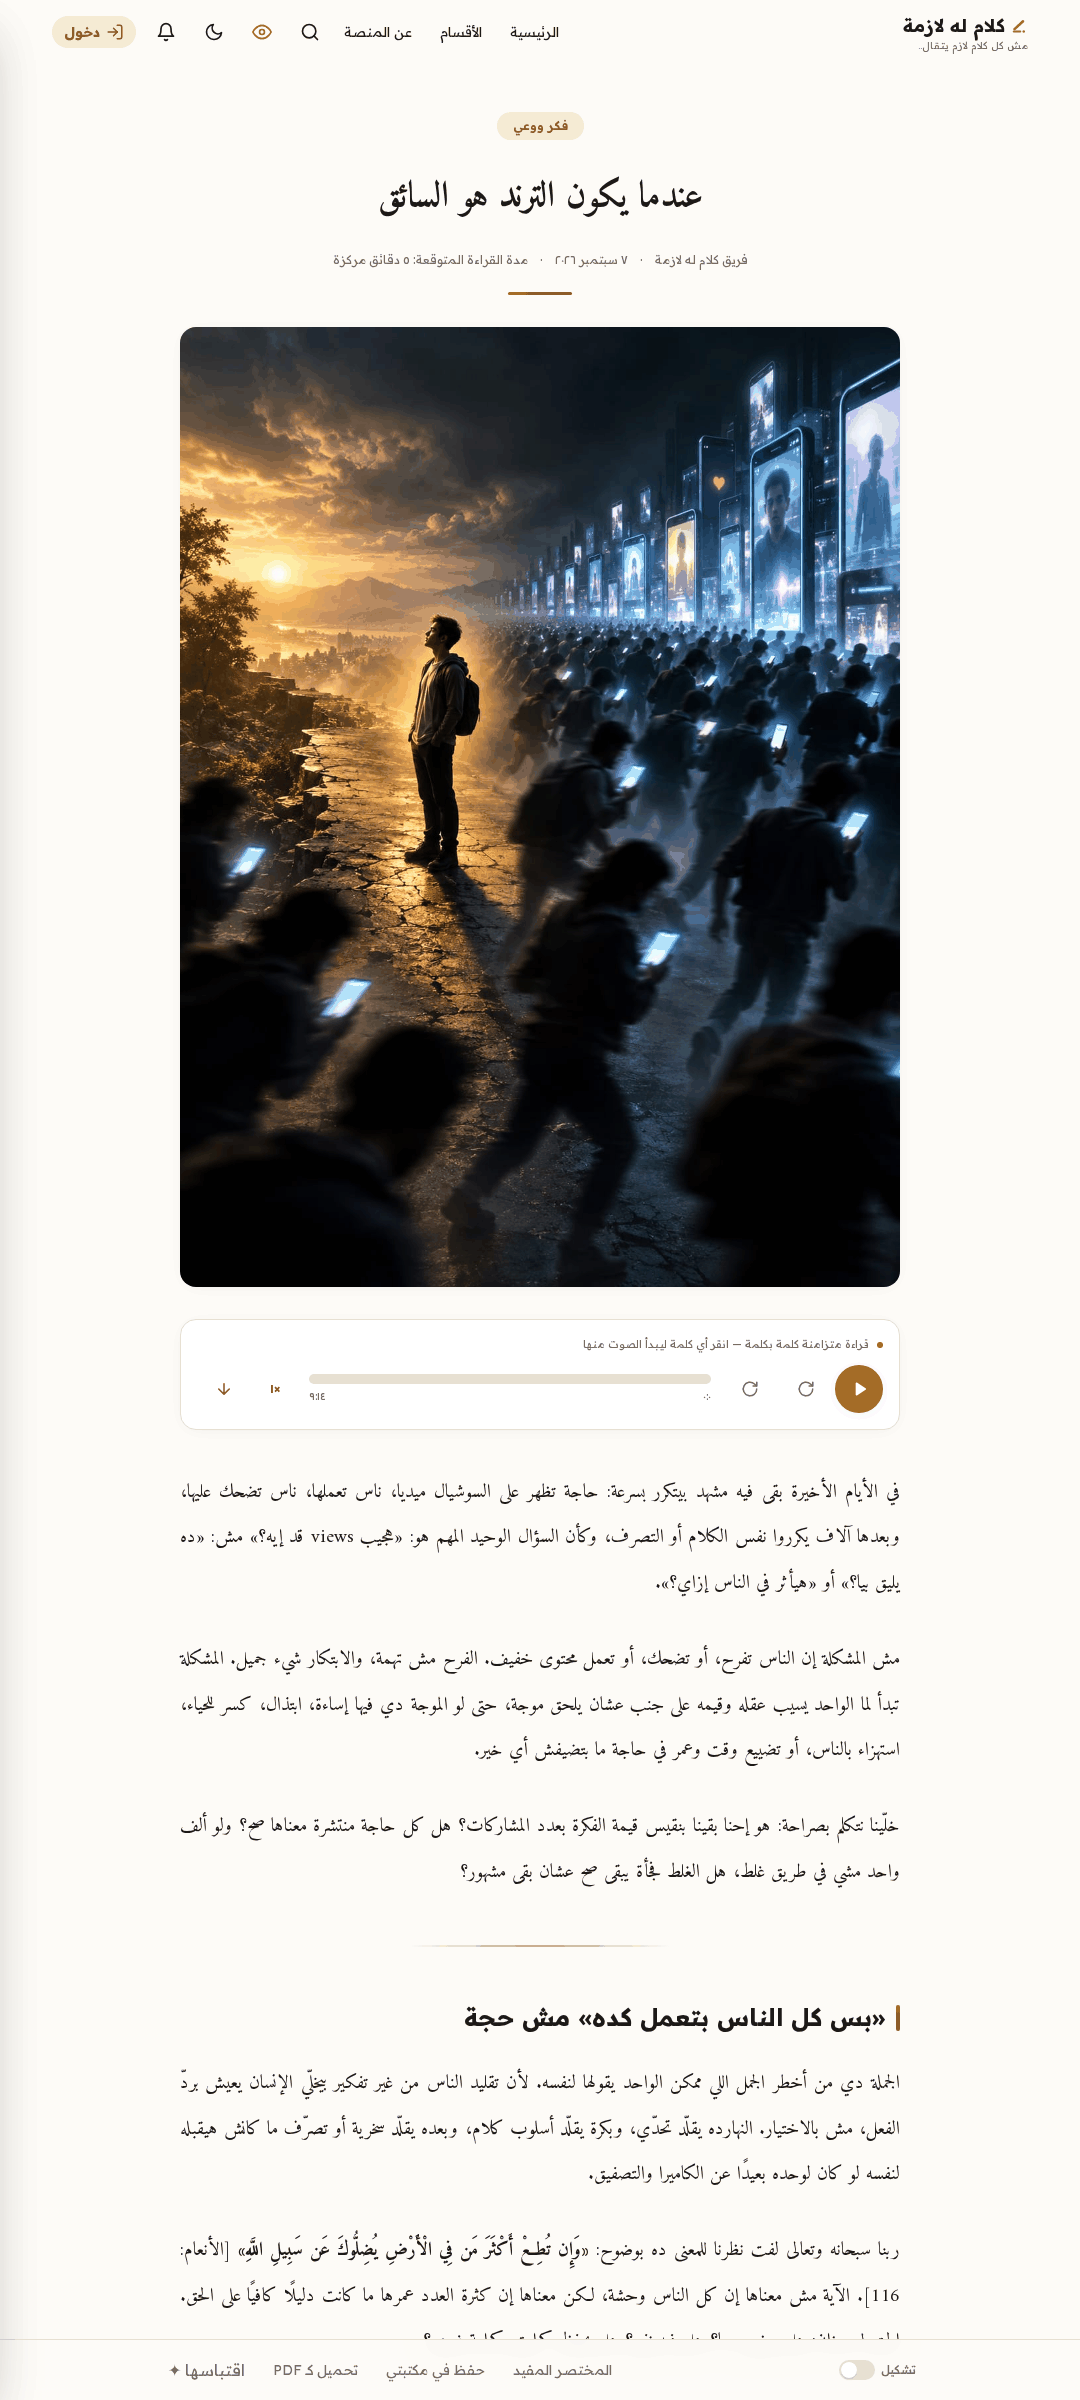
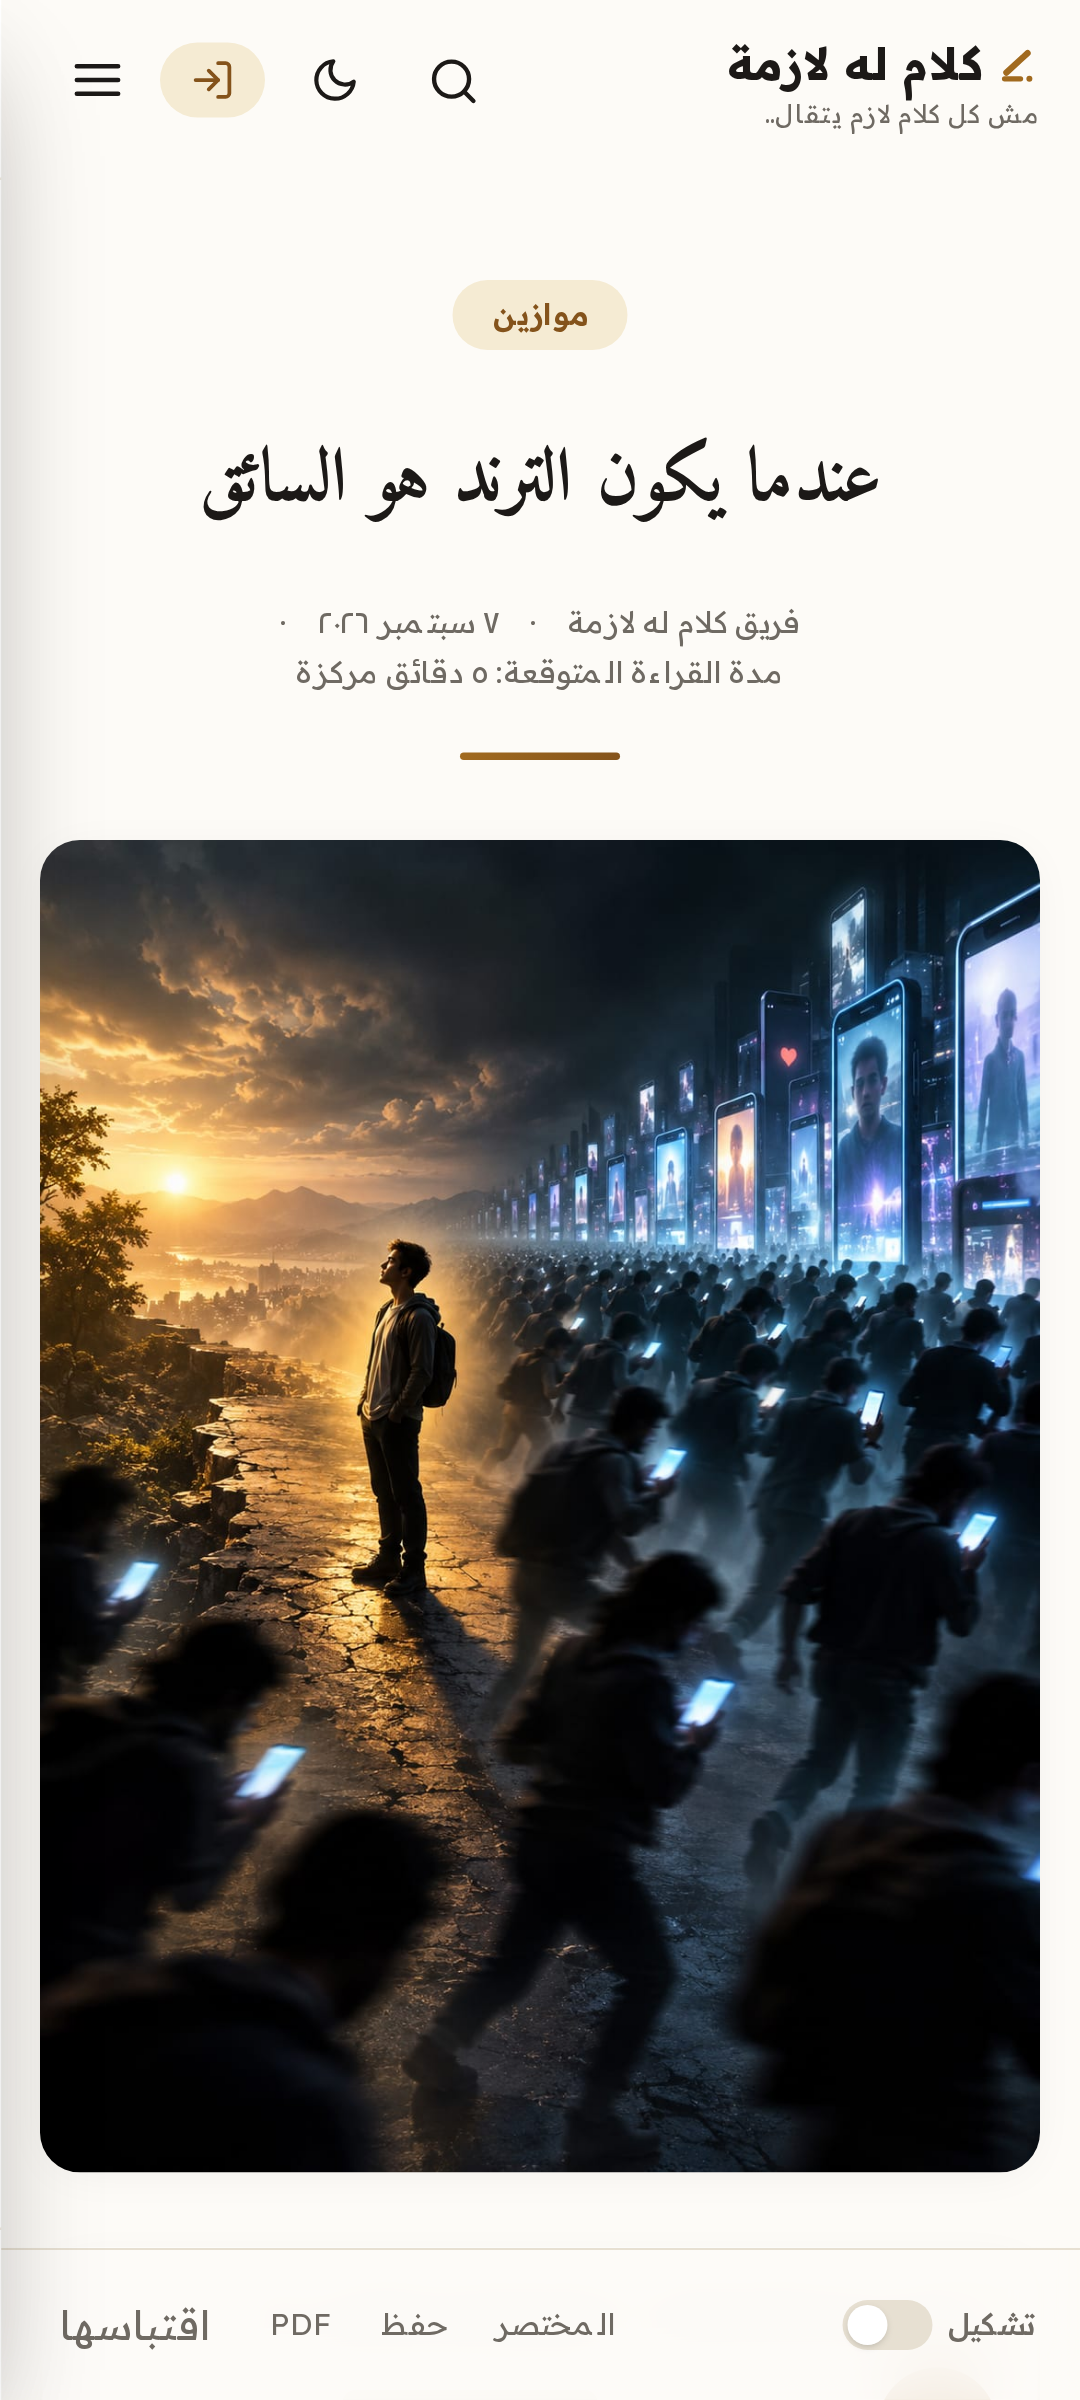
pwa: أيقونات فاتحة/داكنة بالثيم + اختصار متابعة القراءة الديناميكي + مسار /continue + لقطات تثبيت جديدة
- icon-light-192/512 + icon-light-maskable-512: نسخ ورق كريمي #F8F4EC من الشعار (انزياح خلفية متناسق بلا هالات)
- manifest.ts ديناميكي: يقرأ كوكي kalam_theme (الساطع=الافتراضي يثبّت الفاتح، الداكن يثبّت الكحلي) + اختصار «متابعة القراءة: {آخر مقال}» للمسجل دخوله يشير إلى /continue الثابت (ضد كاش أندرويد) + 7 لقطات إنتاج حديثة بمقاسات المعيار (5×1080x2400 + 2×1920x1080) بأوصاف جذابة و?v=2
- /continue: أحدث موضع قراءة غير مكتمل وإلا أحدث محفوظ، والزوار لأحدث المقالات — بلا كسر تجربة أبدًا
- shortcut-continue.png: أيقونة نحاسية على كحلي بنفس لغة الاختصارات

diff --git a/src/app/manifest.ts b/src/app/manifest.ts
@@ -1,13 +1,145 @@
 import type { MetadataRoute } from "next";
+import { cookies } from "next/headers";
+import { auth } from "@/lib/auth";
+import { prisma } from "@/lib/prisma";
 
 /**
- * بيان التطبيق — واجهة تثبيت PWA متقدمة (Richer Install UI):
- * المتصفح يعرض نافذة استعراض شبيهة بالمتاجر الرسمية تتضمن الاسم
- * والوصف وشريط لقطات الشاشة (نسق الجوال الضيق + الحاسوب العريض)
- * قبل الضغط على «تثبيت». اللقطات حية من إنتاج المنصة في
- * public/screenshots/ وتُلتقط آليًا عبر scripts/capture-pwa-screenshots.py
+ * بيان التطبيق الديناميكي — واجهة تثبيت PWA متقدمة (Richer Install UI):
+ * المتصفح يعرض نافذة استعراض شبيهة بالمتاجر الرسمية تتضمن الاسم والوصف
+ * وشريط لقطات الشاشة قبل الضغط على «تثبيت». اللقطات حية من إنتاج المنصة
+ * في public/screenshots/ وتُلتقط آليًا عبر scripts/capture-pwa-screenshots.py
+ *
+ * ديناميكية في ثلاثة أبعاد:
+ *  - الأيقونات تتبع كوكي kalam_theme: الوضع الساطع (الافتراضي) يثبّت
+ *    الشعار الفاتح على الورق الكريمي، والداكن يثبّت الشعار الكحلي.
+ *  - اختصار «متابعة القراءة» يظهر للمسجل دخوله فقط بأحدث موضع قراءته —
+ *    يشير إلى /continue الثابت (أندرويد يحدّث البيان كل بضعة أيام، فالمسار
+ *    الثابت يضمن فتح أحدث موضع لحظة الضغط مهما قدم كاش الجهاز).
+ *  - أي عطل في القراءة الديناميكية لا يكسر البيان أبدًا — قيم افتراضية رصينة.
  */
-export default function manifest(): MetadataRoute.Manifest {
+
+type Shortcut = NonNullable<MetadataRoute.Manifest["shortcuts"]>[number];
+
+const STATIC_SHORTCUTS: Shortcut[] = [
+  {
+    name: "أحدث المقالات",
+    short_name: "المقالات",
+    description: "تصفح أحدث المقالات الفكرية المنشورة",
+    url: "/#latest-articles",
+    icons: [{ src: "/icons/shortcut-articles.png", sizes: "96x96", type: "image/png" }],
+  },
+  {
+    name: "قراءاتي المحفوظة",
+    short_name: "المحفوظات",
+    description: "الوصول السريع إلى مكتبتك وقراءاتك المحفوظة",
+    url: "/saved",
+    icons: [{ src: "/icons/shortcut-saved.png", sizes: "96x96", type: "image/png" }],
+  },
+  {
+    name: "البحث الفكري",
+    short_name: "بحث",
+    description: "ابحث في المقالات والأفكار",
+    url: "/search",
+    icons: [{ src: "/icons/shortcut-search.png", sizes: "96x96", type: "image/png" }],
+  },
+];
+
+const SCREENSHOTS: MetadataRoute.Manifest["screenshots"] = [
+  {
+    src: "/screenshots/mobile-home.png?v=2",
+    sizes: "1080x2400",
+    type: "image/png",
+    form_factor: "narrow",
+    label: "الواجهة الرئيسية — شعار المنصة وأحدث المقالات والأقسام",
+  },
+  {
+    src: "/screenshots/mobile-article.png?v=2",
+    sizes: "1080x2400",
+    type: "image/png",
+    form_factor: "narrow",
+    label: "صفحة المقال — تشكيل حرفي متقن ومشغل تلاوة صوتي متزامن",
+  },
+  {
+    src: "/screenshots/mobile-dark.png?v=2",
+    sizes: "1080x2400",
+    type: "image/png",
+    form_factor: "narrow",
+    label: "الوضع الداكن المريح للعين — قراءة ليلية فاخرة",
+  },
+  {
+    src: "/screenshots/mobile-discuss.png?v=2",
+    sizes: "1080x2400",
+    type: "image/png",
+    form_factor: "narrow",
+    label: "المناقشة الذكية والتعليقات — حوار فكري هادف مع المقال",
+  },
+  {
+    src: "/screenshots/mobile-search.png?v=2",
+    sizes: "1080x2400",
+    type: "image/png",
+    form_factor: "narrow",
+    label: "البحث الفكري — استكشف المقالات بكلمة واحدة",
+  },
+  {
+    src: "/screenshots/desktop-home.png?v=2",
+    sizes: "1920x1080",
+    type: "image/png",
+    form_factor: "wide",
+    label: "المنصة على الشاشات الكبيرة — واجهة رئيسية فخمة",
+  },
+  {
+    src: "/screenshots/desktop-article.png?v=2",
+    sizes: "1920x1080",
+    type: "image/png",
+    form_factor: "wide",
+    label: "تجربة القراءة على الحاسوب — مقال واسع ومريح",
+  },
+];
+
+export default async function manifest(): Promise<MetadataRoute.Manifest> {
+  /* الأيقونة تتبع ثيم القارئ وقت التثبيت — الساطع افتراضيًا */
+  let light = true;
+  try {
+    light = (await cookies()).get("kalam_theme")?.value !== "dark";
+  } catch {}
+
+  const icons: MetadataRoute.Manifest["icons"] = light
+    ? [
+        { src: "/icons/icon-light-192.png", sizes: "192x192", type: "image/png", purpose: "any" },
+        { src: "/icons/icon-light-512.png", sizes: "512x512", type: "image/png", purpose: "any" },
+        { src: "/icons/icon-light-maskable-512.png", sizes: "512x512", type: "image/png", purpose: "maskable" },
+      ]
+    : [
+        { src: "/icons/icon-192.png", sizes: "192x192", type: "image/png", purpose: "any" },
+        { src: "/icons/icon-512.png", sizes: "512x512", type: "image/png", purpose: "any" },
+        { src: "/icons/maskable-512.png", sizes: "512x512", type: "image/png", purpose: "maskable" },
+      ];
+
+  /* اختصار المتابعة الديناميكي — للمسجل دخوله فقط (أندرويد يعرض 4 اختصارات كحد أقصى) */
+  const shortcuts: Shortcut[] = [...STATIC_SHORTCUTS];
+  try {
+    const session = await auth();
+    const userId = session?.user?.id;
+    if (userId) {
+      const rows = await prisma.readingProgress.findMany({
+        where: { userId, article: { status: "PUBLISHED" } },
+        orderBy: { updatedAt: "desc" },
+        take: 1,
+        select: { article: { select: { title: true } } },
+      });
+      if (rows[0]) {
+        const title = rows[0].article.title.trim().slice(0, 32);
+        shortcuts.unshift({
+          name: title.length >= 32 ? `متابعة القراءة: ${title}…` : `متابعة القراءة: ${title}`,
+          short_name: "متابعة",
+          description: "افتح آخر موضع قراءة لك فورًا — أينما توقفت",
+          url: "/continue",
+          icons: [{ src: "/icons/shortcut-continue.png", sizes: "96x96", type: "image/png" }],
+        });
+      }
+    }
+  } catch {}
+
   return {
     name: "كلام له لازمة | منصة فكرية واعية",
     short_name: "كلام له لازمة",
@@ -22,65 +154,8 @@ export default function manifest(): MetadataRoute.Manifest {
     background_color: "#FDFBF7",
     theme_color: "#F8F4EC",
     categories: ["news", "education", "lifestyle"],
-    /* اختصارات الضغط المطول على أيقونة التطبيق في الشاشة الرئيسية —
-       قائمة سريعة تفتح أعمق مسارات المنصة مباشرة (App Shortcuts) */
-    shortcuts: [
-      {
-        name: "أحدث المقالات",
-        short_name: "المقالات",
-        description: "تصفح أحدث المقالات الفكرية المنشورة",
-        url: "/#latest-articles",
-        icons: [{ src: "/icons/shortcut-articles.png", sizes: "96x96", type: "image/png" }],
-      },
-      {
-        name: "قراءاتي المحفوظة",
-        short_name: "المحفوظات",
-        description: "الوصول السريع إلى مكتبتك وقراءاتك المحفوظة",
-        url: "/saved",
-        icons: [{ src: "/icons/shortcut-saved.png", sizes: "96x96", type: "image/png" }],
-      },
-      {
-        name: "البحث الفكري",
-        short_name: "بحث",
-        description: "ابحث في المقالات والأفكار",
-        url: "/search",
-        icons: [{ src: "/icons/shortcut-search.png", sizes: "96x96", type: "image/png" }],
-      },
-    ],
-    icons: [
-      { src: "/icons/icon-192.png", sizes: "192x192", type: "image/png", purpose: "any" },
-      { src: "/icons/icon-512.png", sizes: "512x512", type: "image/png", purpose: "any" },
-      { src: "/icons/maskable-512.png", sizes: "512x512", type: "image/png", purpose: "maskable" },
-    ],
-    screenshots: [
-      {
-        src: "/screenshots/mobile-home.png",
-        sizes: "1080x2400",
-        type: "image/png",
-        form_factor: "narrow",
-        label: "الواجهة الرئيسية واستعراض مسارات الفكر والمقالات",
-      },
-      {
-        src: "/screenshots/mobile-article.png",
-        sizes: "1080x2400",
-        type: "image/png",
-        form_factor: "narrow",
-        label: "تجربة قراءة وتلاوة صوتية متزامنة ومرتبة",
-      },
-      {
-        src: "/screenshots/mobile-dark.png",
-        sizes: "1080x2400",
-        type: "image/png",
-        form_factor: "narrow",
-        label: "القراءة الليلية الداكنة المريحة للعين",
-      },
-      {
-        src: "/screenshots/desktop-preview.png",
-        sizes: "1920x1080",
-        type: "image/png",
-        form_factor: "wide",
-        label: "عرض المنصة وتجربة القراءة على أجهزة الكمبيوتر",
-      },
-    ],
+    shortcuts,
+    icons,
+    screenshots: SCREENSHOTS,
   };
 }

diff --git a/src/app/continue/route.ts b/src/app/continue/route.ts
@@ -1,0 +1,38 @@
+import { NextResponse } from "next/server";
+import { auth } from "@/lib/auth";
+import { prisma } from "@/lib/prisma";
+
+/**
+ * مسار «متابعة القراءة» — الوجهة الذكية لاختصار الضغط المطول على أيقونة
+ * التطبيق. أندرويد يحدّث بيان الـmanifest كل بضعة أيام في الخلفية، لذا
+ * الاختصار يشير إلى هذا المسار الثابت (لا إلى مقال مباشر) كي يفتح دومًا
+ * أحدث موضع قراءة للقارئ لحظة الضغط: أحدث مقال لم يُكمل قراءته، وإلا
+ * أحدث مقال تفاعل معه، والزوار يذهبون إلى أحدث المقالات.
+ */
+export const dynamic = "force-dynamic";
+
+export async function GET(request: Request) {
+  try {
+    const session = await auth();
+    const userId = session?.user?.id;
+    if (userId) {
+      const rows = await prisma.readingProgress.findMany({
+        where: { userId, article: { status: "PUBLISHED" } },
+        orderBy: { updatedAt: "desc" },
+        take: 8,
+        select: { progress: true, article: { select: { slug: true } } },
+      });
+      /* أحدث موضع غير مكتمل أولًا — وإلا أحدث موضع محفوظ (إعادة زيارة) */
+      const target = rows.find((r) => r.progress < 95) ?? rows[0];
+      if (target) {
+        return NextResponse.redirect(
+          new URL(`/article/${encodeURIComponent(target.article.slug)}`, request.url),
+          302,
+        );
+      }
+    }
+  } catch {
+    /* أي عطل — تجربة الضغط المطول لا تُكسر أبدًا */
+  }
+  return NextResponse.redirect(new URL("/#latest-articles", request.url), 302);
+}
